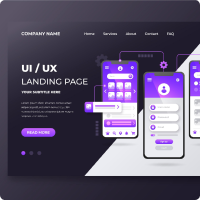
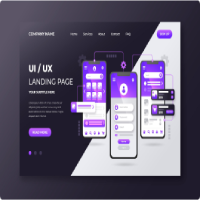
slider added

diff --git a/index.html b/index.html
@@ -25,11 +25,11 @@
                     <img src="img/logo.png" class="img-fluid" alt="">
                 </a>
                 <div class="order-md-3 order-lg-2">
-                        <button class="navbar-toggler" type="button" data-bs-toggle="collapse"
-                            data-bs-target="#navbarSupportedContent" aria-controls="navbarSupportedContent"
-                            aria-expanded="false" aria-label="Toggle navigation">
-                            <span class="navbar-toggler-icon"></span>
-                        </button>
+                    <button class="navbar-toggler" type="button" data-bs-toggle="collapse"
+                        data-bs-target="#navbarSupportedContent" aria-controls="navbarSupportedContent"
+                        aria-expanded="false" aria-label="Toggle navigation">
+                        <span class="navbar-toggler-icon"></span>
+                    </button>
                     <div class="collapse navbar-collapse" id="navbarSupportedContent">
                         <ul class="navbar-nav me-auto mb-2 mb-lg-0">
                             <li class="nav-item mx-3">
@@ -57,15 +57,141 @@
                     class="btn btn-outline-primary order-md-2 order-lg-3 d-none d-sm-none d-md-block px-4 mx-3">Register</button>
             </div>
         </nav>
+
+        <!-- slider area start -->
+        <section>
+            <div id="carouselExampleIndicators" class="carousel slide" data-bs-ride="true">
+                <div class="carousel-indicators">
+                    <button type="button" data-bs-target="#carouselExampleIndicators" data-bs-slide-to="0" class="active"
+                        aria-current="true" aria-label="Slide 1"></button>
+                    <button type="button" data-bs-target="#carouselExampleIndicators" data-bs-slide-to="1"
+                        aria-label="Slide 2"></button>
+                    <button type="button" data-bs-target="#carouselExampleIndicators" data-bs-slide-to="2"
+                        aria-label="Slide 3"></button>
+                </div>
+                <div class="carousel-inner">
+                    <div class="carousel-item active">
+                        <img src="img/cover/cover-1.png" class="d-block w-100" alt="...">
+                    </div>
+                    <div class="carousel-item">
+                        <img src="img/cover/cover-2.jpg" class="d-block w-100" alt="...">
+                    </div>
+                    <div class="carousel-item">
+                        <img src="img/cover/cover-3.jpg" class="d-block w-100" alt="...">
+                    </div>
+                </div>
+                <button class="carousel-control-prev" type="button" data-bs-target="#carouselExampleIndicators"
+                    data-bs-slide="prev">
+                    <span class="carousel-control-prev-icon" aria-hidden="true"></span>
+                    <span class="visually-hidden">Previous</span>
+                </button>
+                <button class="carousel-control-next" type="button" data-bs-target="#carouselExampleIndicators"
+                    data-bs-slide="next">
+                    <span class="carousel-control-next-icon" aria-hidden="true"></span>
+                    <span class="visually-hidden">Next</span>
+                </button>
+            </div>
+        </section>
+
+        <!-- discover area start -->
+        <div class="card mb-3" style="max-width: 540px;">
+            <div class="row g-0">
+              <div class="col-md-4">
+                <img src="img/course/course-1.png" class="img-fluid rounded-start" alt="...">
+              </div>
+              <div class="col-md-8">
+                <div class="card-body">
+                  <h5 class="card-title">Card title</h5>
+                  <p class="card-text">It is a long established fact that a reader will be distracted by the readable content of a page when looking at its layout.</p>
+                  <p class="card-text"><small class="text-muted">Last updated 3 mins ago</small></p>
+                </div>
+              </div>
+            </div>
+          </div>
+
+
+
+
+
+
+
+
+
+
+
+
+
+
+
+
+
+
+
+
+
+
+
+
+
+
+
+
+
+
+
+
+        <!-- <div id="carouselExampleCaptions" class="carousel slide" data-bs-ride="false">
+            <div class="carousel-indicators">
+                <button type="button" data-bs-target="#carouselExampleCaptions" data-bs-slide-to="0" class="active"
+                    aria-current="true" aria-label="Slide 1"></button>
+                <button type="button" data-bs-target="#carouselExampleCaptions" data-bs-slide-to="1"
+                    aria-label="Slide 2"></button>
+                <button type="button" data-bs-target="#carouselExampleCaptions" data-bs-slide-to="2"
+                    aria-label="Slide 3"></button>
+            </div>
+            <div class="carousel-inner">
+                <div class="carousel-item active">
+                    <img src="img/cover/cover-1.png" class="d-block w-100" alt="...">
+                    <div class="carousel-caption d-none d-md-block">
+                        <h5>First slide label</h5>
+                        <p>Some representative placeholder content for the first slide.</p>
+                        <div class="btn bg-primary">Buy Now</div>
+                    </div>
+                </div>
+                <div class="carousel-item">
+                    <img src="img/cover/cover-2.jpg" class="d-block w-100" alt="...">
+                    <div class="carousel-caption d-none d-md-block">
+                        <h5>Second slide label</h5>
+                        <p>Some representative placeholder content for the second slide.</p>
+                    </div>
+                </div>
+                <div class="carousel-item">
+                    <img src="img/cover/cover-3.jpg" class="d-block w-100" alt="...">
+                    <div class="carousel-caption d-none d-md-block">
+                        <h5>Third slide label</h5>
+                        <p>Some representative placeholder content for the third slide.</p>
+                    </div>
+                </div>
+            </div>
+            <button class="carousel-control-prev" type="button" data-bs-target="#carouselExampleCaptions"
+                data-bs-slide="prev">
+                <span class="carousel-control-prev-icon" aria-hidden="true"></span>
+                <span class="visually-hidden">Previous</span>
+            </button>
+            <button class="carousel-control-next" type="button" data-bs-target="#carouselExampleCaptions"
+                data-bs-slide="next">
+                <span class="carousel-control-next-icon" aria-hidden="true"></span>
+                <span class="visually-hidden">Next</span>
+            </button>
+        </div> -->
     </header>
 
 
 
 
 
- 
 
-    
+
 
 
 
